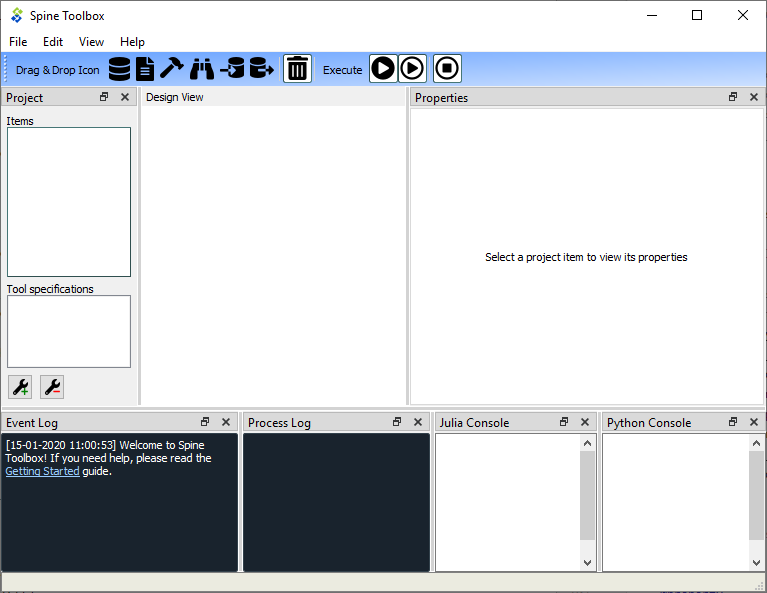
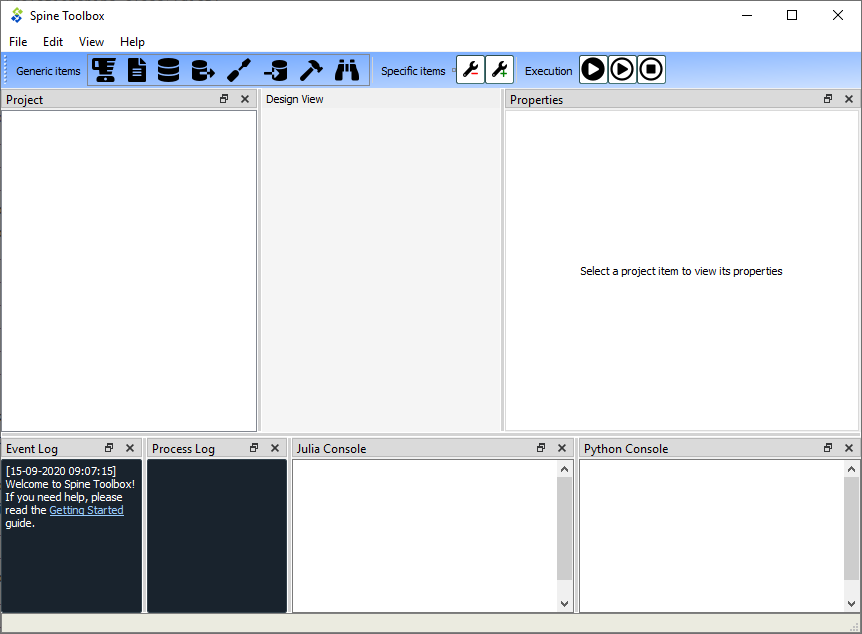
Update project item developer documentation
Re #796

diff --git a/docs/source/conf.py b/docs/source/conf.py
@@ -92,7 +92,7 @@ autoapi_ignore = [
     '*/spinetoolbox/setup.py',
     '*/spinetoolbox/project_items/*/ui/*',
 ]  # ignored modules
-
+autoapi_keep_files=True
 
 # -- Options for HTML output -------------------------------------------------
 

diff --git a/docs/source/project_item_development.rst b/docs/source/project_item_development.rst
@@ -1,3 +1,5 @@
+.. _Project item development:
+
 Project item development
 ========================
 
@@ -6,27 +8,131 @@ how they interact with the Toolbox GUI and how they are executed.
 
 The core of every project item consists of two classes:
 a *static* project item class which is a subclass of :class:`spinetoolbox.project_item.ProjectItem`
-and an *executable*, a subclass of :class:`spinetoolbox.executable_item.ExecutableItem`.
+and an *executable*, a subclass of :class:`spinetoolbox.executable_item_base.ExecutableItemBase`.
 The static item is responsible for integrating the item with the Toolbox while
 its executable counterpart exists only during execution.
 
-There are several other classes assisting with integrating a project item to the Toolbox
-in addition to the static project item class:
+Additional classes are needed to fully define a project item:
 
-* The item's Design view icon which is inherited from :class:`spinetoolbox.graphics_items.ProjectItemIcon`.
-* Properties tab widget and other UI widgets which are needed to change the item's settings.
-  Currently, most of the properties widget's logic is actually in the static project item class.
-* An *add project item* widget. Some project items use the general purpose
+* :class:`spinetoolbox.project_item.ProjectItemFactory` assists Toolbox in constructing project items.
+* Toolbox needs to know an item's type and category. This is achieved by
+  :class:`spinetoolbox.project_item_info.ProjectItemInfo`
+* The item's Design view icon is inherited from :class:`spinetoolbox.graphics_items.ProjectItemIcon`.
+* Properties tab widget and other UI widgets are needed to change the item's settings.
+* An *add project item* widget is used by Toolbox right after a new item has been created.
+  Some project items use the general purpose
   :class:`spinetoolbox.widgets.add_project_item_widget.AddProjectItemWidget`
-  while others use more specialized widgets.
+  while others may use more specialized widgets.
+* Items that support specifications need
+  :class:`spinetoolbox.project_item_specification_factory.ProjectItemSpecificationFactory`
 
-Storing and restoring items
----------------------------
+Getting started
+---------------
 
-Project items are serialized into JSON compatible Python dictionaries by
-:func:`spinetoolbox.project_item.ProjectItem.item_dict`.
-The dictionaries are structured such that they can be given to item's ``__init__()`` method directly as kwargs
-in addition to the ``toolbox``, ``project`` and ``logger`` arguments.
+Probably the most convenient way to start developing a new project item is to work with a copy of some simple
+project item. For example, **View** provides a nice starting point.
+
+Project item packages
+---------------------
+
+Project items are mostly self-contained Python packages.
+Toolbox expects certain modules to exist in the package:
+
+* ``__init__.py`` which contains an ``ItemFactory`` class which must be a subclass of
+  :class:`spinetoolbox.project_item.ProjectItemFactory` and an ``ItemInfo`` class which must be a subclass of
+  :class:`spinetoolbox.project_item_info.ProjectItemInfo`
+* ``executable_item.py`` which contains an ``ExecutableItem`` class, a subclass of
+  :class:`spinetoolbox.executable_item_base.ExecutableItemBase`
+* optional for items that support specifications: ``specification_factory.py`` which contains a ``SpecificationFactory``
+  class, a subclass of :class:`spinetoolbox.project_item_specification_factory.ProjectItemSpecificationFactory`
+
+It is customary to structure the project item packages like the Toolbox itself: ``mvcmodels`` submodule for Qt's
+models, ``ui`` module for automatically generated UI forms and ``widgets`` for the widget's business logic.
+
+Item info
+---------
+
+:class:`spinetoolbox.project_item_info.ProjectItemInfo` is used by Toolbox to query two important pieces of knowledge
+from a project item: *type* and *category*. Type identifies the project item while category is used
+by the Toolbox GUI to group project items with similar function.
+
+Categories are predefined by Toolbox. Currently available categories are: *Data Connections*, *Data Stores*,
+*Importers*, *Exporters*, *Manipulators*, *Tools* and *Views*.
+
+Executable item
+---------------
+
+Usually, most of project item's code is for setting up the item via Toolbox GUI and for integrating the
+item into the Design View. The code that is run during execution by Spine Engine, the *executble item*,
+is usually contained in a single class which must be a subclass of
+:class:`spinetoolbox.executable_item_base.ExecutableItemBase`.
+
+Executable items live in a separate environment to the rest of the project item. They are constructed
+by the Toolbox only during execution and mainly interact with Spine Engine. As such, the executable items
+are expected to not use any GUI code or have any interaction with users.
+
+One common aspect between executable items and 'static' project items (subclasses of
+:class:`spinetoolbox.project_item.ProjectItem`) are resources. However,
+executable items cannot pass ``transient_file`` type resources since all file URLs need to point to
+existing files during execution.
+
+Factories
+---------
+
+Toolbox utilizes :class:`spinetoolbox.project_item.ProjectItemFactory` to instantiate new project items
+in the Design View. For this purpose, the class provides methods to create an icon to show in Toolbox toolbar,
+an *add item dialog*, an icon to show on the Design view (a subclass of
+:class:`spinetoolbox.graphics_items.ProjectItemIcon`), construct the project item itself,
+and some methods to deal with items that support specifications.
+
+Specifications
+--------------
+
+Project item specifications are template or predefined configurations for certain tasks. For example, a tool might have
+a specification which defines input files, command line parameters and other settings for running a specific model
+generator. Specifications are an opt-in feature and project items need to implement the corresponding methods
+in :class:`spinetoolbox.project_item.ProjectItemFactory` such that Toolbox knows the item supports them.
+
+Toolbox GUI integration
+-----------------------
+
+Toolbox shows a project item's icon which it gets from the item factory's
+:func:`spinetoolbox.project_item.ProjectItemFactory.icon` method on the toolbar. The method returns an URL to the
+icon's resource in Toolbox' resources. Items that support specifications may get their icon in the specifications
+toolbar as well, if a proper specification has been added to the project.
+
+After dragging and dropping a project item from the toolbar onto the design view, Toolbox calls
+:func:`spinetoolbox.project_item.ProjectItemFactory.make_icon` to construct the item on the design view. This icon
+is a subclass of :class:`spinetoolbox.graphics_items.ProjectItemIcon`. To prompt the user for the new item's name
+and optionally other initial properties, Toolbox shows the Add item dialog it gets from
+:func:`spinetoolbox.project_item.ProjectItemFactory.make_add_item_widget`
+
+Once the item is on the design view, the main interaction with it goes through the properties tab which is created
+by :func:`spinetoolbox.project_item.ProjectItemFactory.make_properties_widget`. The properties tab widget should have
+all the needed controls to set up the item.
+
+Every time a DAG on the design view changes, Toolbox calls
+:func:`spinetoolbox.project_item.ProjectItem._do_handle_dag_changed` on the affected items. This method should be
+reimplemented to update the project item and check its status, e.g. if all required inputs are available. Issues can
+be reported by :func:`spinetoolbox.project_item.ProjectItem.add_notification` and the notification cleared by
+:func:`spinetoolbox.project_item.ProjectItem.clear_notifications`
+
+Saving and restoring project items
+----------------------------------
+
+Project items are saved in JSON format as part of the `project.json` file. Item saving is handled by
+:func:`spinetoolbox.project_item.ProjectItem.item_dict` which should return a JSON compatible ``dict`` and
+contain at least the information in the ``dict`` returned by the base class method.
+
+File system paths are handled specifically during saving: all paths outside the project directory should be absolute
+while the paths in the project directory should be relative. This is to enable self-contained projects which include
+all needed files and can be easily transferred from system to system. As such, paths are saved as special dictionaries.
+:func:`spinetoolbox.helpers.serialize_path`, :func:`spinetoolbox.helpers.serialize_url` and
+:func:`spinetoolbox.helpers.deserialize_path` help with dealing with the paths.
+
+:func:`spinetoolbox.project_item.ProjectItem.from_dict` is responsible for reconstructing a save project item
+from the dictionary. :func:`spinetoolbox.project_item.ProjectItem.parse_item_dict` can be utilized to deserialize
+the basic data needed by the base class.
 
 Passing data between items: resources
 -------------------------------------
@@ -34,7 +140,7 @@ Passing data between items: resources
 Project items share data by files or via databases. One item writes a file which is then read by another item.
 *Project item resources* are used to communicate the URLs of these files and databases.
 
-Resources are instances of the :class:`spinetoolbox.project_item.ProjectItemResource` class.
+Resources are instances of the :class:`spinetoolbox.project_item_resource.ProjectItemResource` class.
 
 Both static items and their executable counterparts pass resources.
 The major difference is that static item's may pass resource *promises*
@@ -51,37 +157,45 @@ it has to tell these items where to write their output data.
 
 The table below lists the resources each project item type provides during execution.
 
-+-----------------+-------+-------------------------+-----------------------+
-| Item            | Notes | Provides to predecessor | Provides to successor |
-+=================+=======+=========================+=======================+
-| Data Connection | [#]_  | n/a                     | File URLs             |
-+-----------------+-------+-------------------------+-----------------------+
-| Data Store      | [#]_  | Database URL            | Database URL          |
-+-----------------+-------+-------------------------+-----------------------+
-| Exporter        |       | n/a                     | File URLs             |
-+-----------------+-------+-------------------------+-----------------------+
-| Importer        |       | n/a                     | n/a                   |
-+-----------------+-------+-------------------------+-----------------------+
-| Tool            | [#]_  | n/a                     | File URLs             |
-+-----------------+-------+-------------------------+-----------------------+
-| View            |       | n/a                     | n/a                   |
-+-----------------+-------+-------------------------+-----------------------+
++-----------------+-------+-------------------------+----------------------------+
+| Item            | Notes | Provides to predecessor | Provides to successor      |
++=================+=======+=========================+============================+
+| Combiner        |       | n/a                     | n/a                        |
++-----------------+-------+-------------------------+----------------------------+
+| Data Connection | [#]_  | n/a                     | File URLs                  |
++-----------------+-------+-------------------------+----------------------------+
+| Data Store      | [#]_  | Database URL            | Database URL               |
++-----------------+-------+-------------------------+----------------------------+
+| Exporter        |       | n/a                     | File URLs                  |
++-----------------+-------+-------------------------+----------------------------+
+| Gimlet          |       | n/a                     | Resources from predecessor |
++-----------------+-------+-------------------------+----------------------------+
+| Importer        |       | n/a                     | n/a                        |
++-----------------+-------+-------------------------+----------------------------+
+| Tool            | [#]_  | n/a                     | File URLs                  |
++-----------------+-------+-------------------------+----------------------------+
+| View            |       | n/a                     | n/a                        |
++-----------------+-------+-------------------------+----------------------------+
 
 .. [#] Data connection provides paths to local files.
 .. [#] Data Store provides a database URL to direct successors and predecessors. Note, that this is the
    only project item that provides resources to it's predecessors.
 .. [#] Tool's output files are specified by a *Tool specification*.
 
-The table below lists the resources that migh be used by each item type during execution.
+The table below lists the resources that might be used by each item type during execution.
 
 +-----------------+-------+---------------------------+------------------------+
 | Item            | Notes | Accepts from predecessor  | Accepts from successor |
 +=================+=======+===========================+========================+
+| Combiner        | [#]_  | Database URL              | Database URL           |
++-----------------+-------+---------------------------+------------------------+
 | Data Connection |       | n/a                       | n/a                    |
 +-----------------+-------+---------------------------+------------------------+
 | Data Store      |       | n/a                       | n/a                    |
 +-----------------+-------+---------------------------+------------------------+
 | Exporter        |       | Database URL              | n/a                    |
++-----------------+-------+---------------------------+------------------------+
+| Gimlet          | [#]_  | File URLs, database URLs  | Database URLs          |
 +-----------------+-------+---------------------------+------------------------+
 | Importer        | [#]_  | File URLs                 | Database URL           |
 +-----------------+-------+---------------------------+------------------------+
@@ -90,6 +204,8 @@ The table below lists the resources that migh be used by each item type during e
 | View            |       | Database URLs             | n/a                    |
 +-----------------+-------+---------------------------+------------------------+
 
+.. [#] Combiner requires a database URL from its successor for writing the output data.
+.. [#] Gimlet's resources can be passed to the command as command line arguments but are otherwise ignored.
 .. [#] Importer requires a database URL from its successor for writing the mapped data.
    This can be provided by a Data Store.
 .. [#] *Tool specification* specifies tool's optional and required input files.
@@ -113,17 +229,17 @@ Forward execution is when the project items do their actions.
 
 When executing in either direction:
 
-#. :func:`spinetoolbox.executable_item.ExecutableItem.execute` is invoked with a list of available resources
+#. :func:`spinetoolbox.executable_item_base.ExecutableItemBase.execute` is invoked with a list of available resources
    and current execution direction.
-#. The resources returned by :func:`spinetoolbox.executable_item.ExecutableItem.output_resources` are
+#. The resources returned by :func:`spinetoolbox.executable_item_base.ExecutableItemBase.output_resources` are
    accumulated and passed to the ``execute()`` of the successor item.
 
-The ``execute()`` method further delegates the exedution to the overridable
-:func:`spinetoolbox.executable_item.ExecutableItem._execute_forward` and
-:func:`spinetoolbox.executable_item.ExecutableItem._execute_backward` methods.
+The ``execute()`` method further delegates the execution to the overridable
+:func:`spinetoolbox.executable_item_base.ExecutableItemBase._execute_forward` and
+:func:`spinetoolbox.executable_item_base.ExecutableItemBase._execute_backward` methods.
 Similarly, ``output_resources()`` calls the
-:func:`spinetoolbox_executable_item.ExecutableItem._output_resources_forward` and
-:func:`spinetoolbox_executable_item.ExecutableItem._output_resources_backward` methods.
+:func:`spinetoolbox_executable_item_base.ExecutableItemBase._output_resources_forward` and
+:func:`spinetoolbox_executable_item_base.ExecutableItemBase._output_resources_backward` methods.
 
 The executable items need additional properties to function.
 The table below lists the properties for each item.
@@ -132,17 +248,31 @@ Basically, these are the arguments that are provided to each executable's ``__in
 +-----------------+-------+--------------------------+
 | Item            | Notes | Properties               |
 +=================+=======+==========================+
+| Combiner        |       | Log directory            |
++                 +-------+--------------------------+
+|                 | [#]_  | Cancel on error flag     |
++-----------------+-------+--------------------------+
 | Data Connection | [#]_  | File references          |
 +                 +-------+--------------------------+
 |                 | [#]_  | Data files               |
 +-----------------+-------+--------------------------+
 | Data Store      |       | Database URL             |
 +-----------------+-------+--------------------------+
+| Gimlet          |       | Shell name               |
++                 +-------+--------------------------+
+|                 | [#]_  | Command                  |
++                 +-------+--------------------------+
+|                 |       | Work directory           |
++                 +-------+--------------------------+
+|                 |       | Data files               |
++-----------------+-------+--------------------------+
 | Exporter        |       | Export settings          |
 +                 +-------+--------------------------+
 |                 |       | Output directory         |
 +                 +-------+--------------------------+
 |                 | [#]_  | GAMS system directory    |
++                 +-------+--------------------------+
+|                 | [#]_  | Cancel on error flag     |
 +-----------------+-------+--------------------------+
 | Importer        |       | Mapping settings         |
 +                 +-------+--------------------------+
@@ -165,12 +295,15 @@ Basically, these are the arguments that are provided to each executable's ``__in
 | View            |       | n/a                      |
 +-----------------+-------+--------------------------+
 
+.. [#] A flag indicating if the combine database operation should stop when an error is encountered.
 .. [#] Path to files which can be anywhere in the file system.
 .. [#] Files which reside in the item's data directory.
+.. [#] Including command line arguments.
 .. [#] Path to the directory which contains a GAMS installation.
    Required to find the libraries needed for writing ``.gdx`` files.
 .. [#] Path to the directory which contains a Python installation.
    Required to run the import operation in a separate process.
 .. [#] Path to the directory which contains a GAMS installation.
    Required to find the libraries needed for reading ``.gdx`` files.
+.. [#] A flag indicating if the export operation should stop when an error is encountered.
 .. [#] A flag indicating if the import operation should stop when an error is encountered.

diff --git a/docs/source/project_items.rst b/docs/source/project_items.rst
@@ -1,9 +1,9 @@
 .. Project items documentation
    Created 19.8.2019
 
-.. |data_connection| image:: ../../spinetoolbox/ui/resources/project_item_icons/file-alt.svg
+.. |combiner| image:: ../../spinetoolbox/ui/resources/project_item_icons/blender.svg
    :width: 16
-.. |importer| image:: ../../spinetoolbox/ui/resources/project_item_icons/database-import.svg
+.. |data_connection| image:: ../../spinetoolbox/ui/resources/project_item_icons/file-alt.svg
    :width: 16
 .. |data_store| image:: ../../spinetoolbox/ui/resources/project_item_icons/database.svg
    :width: 16
@@ -13,11 +13,15 @@
    :width: 16
 .. |exporter| image:: ../../spinetoolbox/ui/resources/project_item_icons/database-export.svg
    :width: 16
+.. |folder-open| image:: ../../spinetoolbox/ui/resources/menu_icons/folder-open-solid.svg
+   :width: 16
+.. |gimlet| image:: ../../spinetoolbox/ui/resources/project_item_icons/screwdriver.svg
+   :width: 16
+.. |importer| image:: ../../spinetoolbox/ui/resources/project_item_icons/database-import.svg
+   :width: 16
 .. |tool| image:: ../../spinetoolbox/ui/resources/project_item_icons/hammer.svg
    :width: 16
 .. |view| image:: ../../spinetoolbox/ui/resources/project_item_icons/binoculars.svg
-   :width: 16
-.. |folder-open| image:: ../../spinetoolbox/ui/resources/menu_icons/folder-open-solid.svg
    :width: 16
 
 .. _Project Items:
@@ -32,8 +36,8 @@ Project Items
 Project items in the *Design view* and the connections between them make up the graph (Directed Acyclic
 Graph, DAG) that is executed when the |execute| or |execute-selected| buttons are pressed.
 
-See :ref:`Executing Projects` for more information on how a DAG is processed by Spine Toolbox. You can
-also find information on how resources are passed between project items at execution time there.
+See :ref:`Executing Projects` for more information on how a DAG is processed by Spine Toolbox.
+Those interested in looking under the hood can check the :ref:`Project item development` section.
 
 Project Item Properties
 -----------------------
@@ -73,12 +77,25 @@ Tool is the heart of a DAG. It is usually the actual model to be executed in Spi
 but can be an arbitrary script or executable as well.
 A tool is specified by its :ref:`specification <Tool specification editor>`.
 
+Gimlet |gimlet|
+===============
+
+While being able to run most scripts and copyable executables, Tool cannot handle system commands
+or executables meant to run from system's *path*. This is a job for Gimlet.
+A Gimlet can execute an arbitrary system command with given command line arguments,
+input files and work directory.
+
 View |view|
 ===========
 
 A View item is meant for inspecting data from multiple sources using the
 :ref:`Spine db editor <Spine db editor>`.
 Note that the data is opened in read-only mode so modifications are not possible from the View item.
+
+Combiner |combiner|
+===================
+
+A Combiner item can be used to combine two or more databases into one.
 
 Importer |importer|
 ===================

diff --git a/docs/source/main_window.rst b/docs/source/main_window.rst
@@ -60,9 +60,10 @@ resize the views to fit your needs and display size or resolution.
    This will show all hidden dock widgets and restore them to the main window.
 
 Below is an example on how you can customize the main window. In the picture, a user has created a project *My First
-Project*, and created one project item from each of the six categories. A Data Store called *Database*, a Data
-Connection called *Data files*, A Tool called *Julia model*, a View called *View*, an Importer called *Mapper*,
-and an Exporter called *Exporter*. The project items are also listed in the *Project* dock widget.
+Project*, and created one project item from each of the seven categories. A Data Store called *Database*, a Data
+Connection called *Data files*, A Tool called *Julia model*, a View called *View*, an Importer called *Importer*,
+an Exporter called *Exporter*, and a Manipulator called *Combiner*.
+The project items are also listed in the *Project* dock widget.
 
-.. image:: img/main_window_my_first_project_six_project_items.png
+.. image:: img/main_window_my_first_project_with_project_items.png
    :align: center
